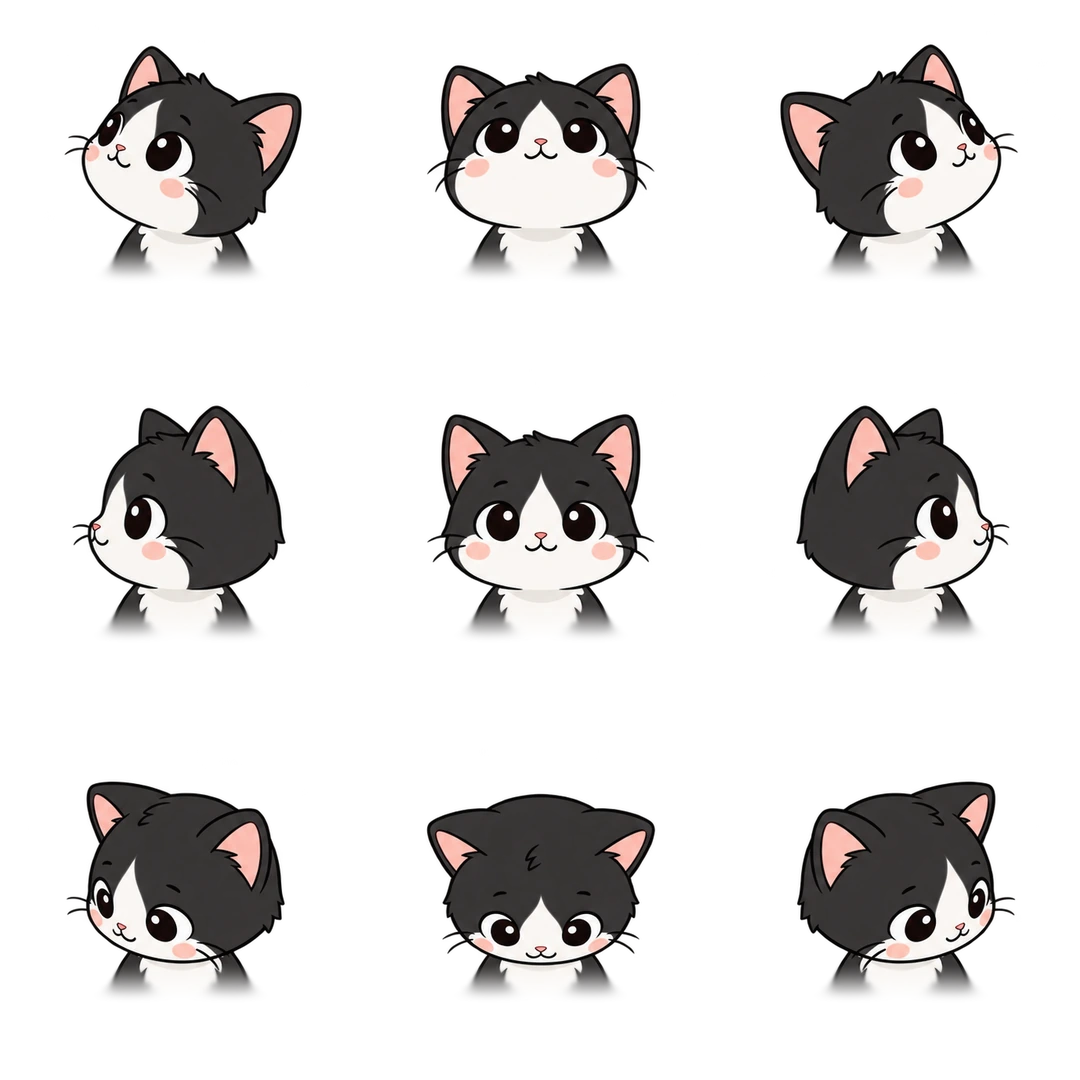
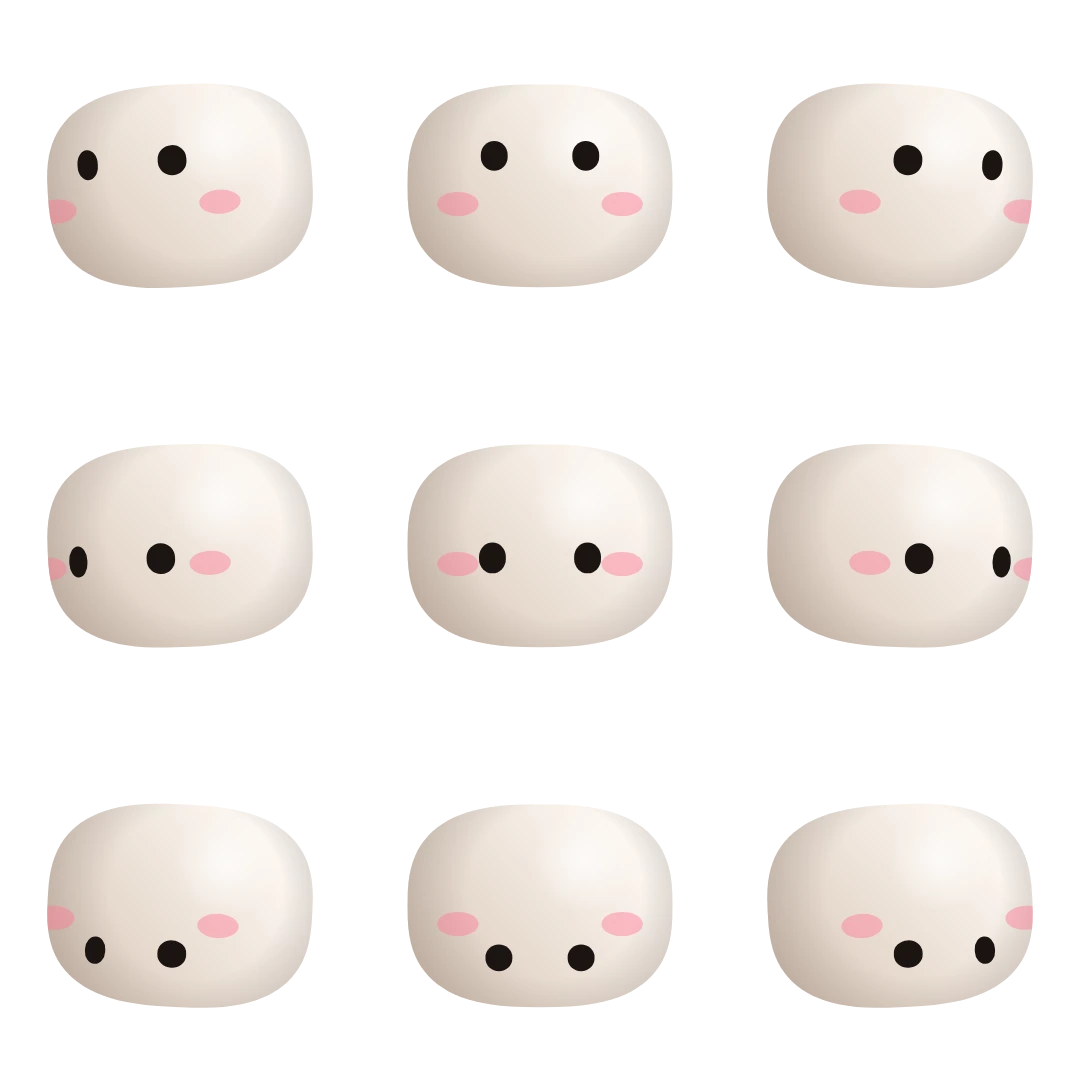
feat(mascot): integrate authentic Coucou Mochi character design

diff --git a/scripts/build-coucou-mochi-sprites.js b/scripts/build-coucou-mochi-sprites.js
@@ -1,0 +1,339 @@
+const { createCanvas } = require('@napi-rs/canvas');
+const fs = require('fs');
+const path = require('path');
+
+function drawCoucouMochi(ctx, cx, cy, size, opts = {}) {
+  const W = size;
+  const R = W * 0.32 * (opts.scale || 1.0);
+  const rx = R * 1.15;
+  const ry = R * 0.88;
+
+  const yaw = opts.yaw || 0;
+  const pitch = opts.pitch || 0;
+  const tilt = opts.tilt || 0;
+  const roll = opts.roll || 0;
+  const sx = opts.sx || 1;
+  const sy = opts.sy || 1;
+  const open = opts.open !== undefined ? opts.open : 1;
+  const eyeShape = opts.eye || 'pill';
+  const blush = opts.blush !== undefined ? opts.blush : 0.45;
+
+  ctx.save();
+  ctx.translate(cx + (opts.ox || 0) * R, cy + (opts.oy || 0) * R + R * 0.05);
+  if (tilt) ctx.rotate(tilt);
+  ctx.scale(sx, sy);
+
+  // 1. Superellipsoid path (exponent 2.7) matching BotEngine and Coucou mochiPath
+  const pathPoints = [];
+  const n = 96;
+  const e = 2 / 2.7;
+  for (let i = 0; i <= n; i++) {
+    const a = (i / n) * Math.PI * 2;
+    const ca = Math.cos(a);
+    const sa = Math.sin(a);
+    const px = rx * Math.sign(ca) * Math.pow(Math.abs(ca), e);
+    const py = ry * Math.sign(sa) * Math.pow(Math.abs(sa), e);
+    pathPoints.push([px, py]);
+  }
+
+  function setMochiPath() {
+    ctx.beginPath();
+    pathPoints.forEach(([px, py], i) => {
+      if (i === 0) ctx.moveTo(px, py);
+      else ctx.lineTo(px, py);
+    });
+    ctx.closePath();
+  }
+
+  // 2. Base Linear Gradient (Mochi Rice Warm Ivory/Porcelain)
+  setMochiPath();
+  const c0 = opts.topColor || '#FFFAF5';
+  const c1 = opts.botColor || '#DAC9BA';
+  const g = ctx.createLinearGradient(rx * 0.7, -ry * 0.85, -rx * 0.8, ry * 0.9);
+  g.addColorStop(0, c0);
+  g.addColorStop(1, c1);
+  ctx.fillStyle = g;
+  ctx.fill();
+
+  // 3. Ambient & Bottom Shading
+  setMochiPath();
+  const sh = ctx.createRadialGradient(rx * 0.25, -ry * 0.32, R * 0.15, 0, 0, R * 1.25);
+  sh.addColorStop(0, 'rgba(255, 255, 255, 0)');
+  sh.addColorStop(0.55, 'rgba(0, 0, 0, 0)');
+  sh.addColorStop(1, 'rgba(40, 20, 10, 0.18)');
+  ctx.fillStyle = sh;
+  ctx.fill();
+
+  // 4. Soft 3D Specular Highlight
+  setMochiPath();
+  const hl = ctx.createRadialGradient(rx * 0.32, -ry * 0.44, 0, rx * 0.32, -ry * 0.44, R * 0.45);
+  hl.addColorStop(0, 'rgba(255, 255, 255, 0.72)');
+  hl.addColorStop(1, 'rgba(255, 255, 255, 0)');
+  ctx.fillStyle = hl;
+  ctx.fill();
+
+  // 5. Rosy Cheeks (Blush)
+  if (blush > 0.01) {
+    ctx.save();
+    setMochiPath();
+    ctx.clip();
+    const yo = Math.sin(yaw) * rx * 0.8;
+    ctx.fillStyle = `rgba(255, 120, 150, ${blush})`;
+    for (const sd of [-1, 1]) {
+      ctx.beginPath();
+      ctx.ellipse(sd * rx * 0.62 + yo, ry * 0.18, R * 0.18, R * 0.105, 0, 0, Math.PI * 2);
+      ctx.fill();
+    }
+    ctx.restore();
+  }
+
+  // 6. Eyes (Coucou 3D Spherical Projection & Expressive Shapes)
+  const EYE_W = 0.25;
+  const EYE_H = 0.27;
+  const EYE_SP = 0.37;
+  const EYE_P = -0.12;
+
+  ctx.save();
+  setMochiPath();
+  ctx.clip();
+  ctx.fillStyle = '#1A1412';
+  ctx.strokeStyle = '#1A1412';
+
+  for (const sd of [-1, 1]) {
+    const eyeYaw = sd * EYE_SP + yaw;
+    let eyePitch = EYE_P + pitch + roll;
+    eyePitch = ((eyePitch + Math.PI) % (2 * Math.PI) + 2 * Math.PI) % (2 * Math.PI) - Math.PI;
+    const cp = Math.cos(eyePitch);
+    if (Math.cos(eyeYaw) * cp < 0.04) continue;
+
+    const px = Math.sin(eyeYaw) * cp * rx;
+    const py = -Math.sin(eyePitch) * ry;
+    const fx = Math.max(0.18, Math.cos(eyeYaw));
+    const fy = Math.max(0.18, cp);
+
+    ctx.save();
+    ctx.translate(px, py);
+    ctx.scale(fx, fy);
+
+    let ew = R * EYE_W;
+    let eh = R * EYE_H;
+
+    switch (eyeShape) {
+      case 'happy': {
+        ctx.lineWidth = ew * 0.52;
+        ctx.lineCap = 'round';
+        ctx.beginPath();
+        ctx.arc(0, eh * 0.18, ew * 0.85, Math.PI * 1.12, Math.PI * 1.88);
+        ctx.stroke();
+        break;
+      }
+      case 'wink': {
+        if (sd < 0) {
+          const hh = Math.max(eh * open, ew * 0.3);
+          ctx.beginPath();
+          ctx.roundRect(-ew / 2, -hh / 2, ew, hh, Math.min(ew / 2, hh / 2));
+          ctx.fill();
+        } else {
+          ctx.lineWidth = ew * 0.52;
+          ctx.lineCap = 'round';
+          ctx.beginPath();
+          ctx.arc(0, eh * 0.18, ew * 0.85, Math.PI * 1.12, Math.PI * 1.88);
+          ctx.stroke();
+        }
+        break;
+      }
+      case 'heart': {
+        ctx.fillStyle = '#FF4D6D';
+        const s = ew * 1.25;
+        ctx.beginPath();
+        ctx.moveTo(0, s * 0.38);
+        ctx.bezierCurveTo(-s * 1.05, -s * 0.15, -s * 0.5, -s * 0.95, 0, -s * 0.38);
+        ctx.bezierCurveTo(s * 0.5, -s * 0.95, s * 1.05, -s * 0.15, 0, s * 0.38);
+        ctx.closePath();
+        ctx.fill();
+        break;
+      }
+      case 'star': {
+        ctx.fillStyle = '#F7B32B';
+        const ro = ew * 1.15, ri = ew * 0.48;
+        ctx.beginPath();
+        for (let i = 0; i < 10; i++) {
+          const r = i % 2 ? ri : ro, a = -Math.PI / 2 + (i * Math.PI) / 5;
+          const sx = Math.cos(a) * r, sy = Math.sin(a) * r;
+          if (i === 0) ctx.moveTo(sx, sy);
+          else ctx.lineTo(sx, sy);
+        }
+        ctx.closePath();
+        ctx.fill();
+        break;
+      }
+      case 'dot': {
+        ctx.beginPath();
+        ctx.arc(0, 0, ew * 0.48, 0, Math.PI * 2);
+        ctx.fill();
+        break;
+      }
+      case 'closed': {
+        ctx.lineWidth = ew * 0.38;
+        ctx.lineCap = 'round';
+        ctx.beginPath();
+        ctx.arc(0, -eh * 0.08, ew * 0.8, Math.PI * 0.15, Math.PI * 0.85);
+        ctx.stroke();
+        break;
+      }
+      case 'spiral': {
+        ctx.lineWidth = ew * 0.24;
+        ctx.lineCap = 'round';
+        ctx.beginPath();
+        for (let a = 0; a < 4.4 * Math.PI; a += 0.2) {
+          const r = ew * 0.06 + a * ew * 0.058;
+          const sx = Math.cos(a) * r, sy = Math.sin(a) * r;
+          if (a === 0) ctx.moveTo(sx, sy);
+          else ctx.lineTo(sx, sy);
+        }
+        ctx.stroke();
+        break;
+      }
+      case 'pill':
+      default: {
+        const hh = Math.max(eh * open, ew * 0.3);
+        ctx.beginPath();
+        ctx.roundRect(-ew / 2, -hh / 2, ew, hh, Math.min(ew / 2, hh / 2));
+        ctx.fill();
+        break;
+      }
+    }
+
+    ctx.restore();
+  }
+  ctx.restore();
+
+  // 7. Floating particles
+  if (opts.particle === 'heart') {
+    ctx.save();
+    ctx.translate(rx * 0.45, -ry * 0.95);
+    ctx.fillStyle = '#FF4D6D';
+    const s = R * 0.24;
+    ctx.beginPath();
+    ctx.moveTo(0, s * 0.38);
+    ctx.bezierCurveTo(-s * 1.05, -s * 0.15, -s * 0.5, -s * 0.95, 0, -s * 0.38);
+    ctx.bezierCurveTo(s * 0.5, -s * 0.95, s * 1.05, -s * 0.15, 0, s * 0.38);
+    ctx.closePath();
+    ctx.fill();
+    ctx.restore();
+  } else if (opts.particle === 'star') {
+    ctx.save();
+    ctx.translate(rx * 0.5, -ry * 0.9);
+    ctx.fillStyle = '#F7B32B';
+    const ro = R * 0.22, ri = R * 0.095;
+    ctx.beginPath();
+    for (let i = 0; i < 10; i++) {
+      const r = i % 2 ? ri : ro, a = -Math.PI / 2 + (i * Math.PI) / 5;
+      const sx = Math.cos(a) * r, sy = Math.sin(a) * r;
+      if (i === 0) ctx.moveTo(sx, sy);
+      else ctx.lineTo(sx, sy);
+    }
+    ctx.closePath();
+    ctx.fill();
+    ctx.restore();
+  } else if (opts.particle === 'spark') {
+    ctx.save();
+    ctx.translate(rx * 0.48, -ry * 0.88);
+    ctx.fillStyle = '#FFFFFF';
+    const ro = R * 0.2, ri = R * 0.05;
+    ctx.beginPath();
+    for (let i = 0; i < 8; i++) {
+      const r = i % 2 ? ri : ro, a = (i * Math.PI) / 4;
+      const sx = Math.cos(a) * r, sy = Math.sin(a) * r;
+      if (i === 0) ctx.moveTo(sx, sy);
+      else ctx.lineTo(sx, sy);
+    }
+    ctx.closePath();
+    ctx.fill();
+    ctx.restore();
+  }
+
+  ctx.restore();
+}
+
+function buildDirectionsSheet() {
+  const canvas = createCanvas(1080, 1080);
+  const ctx = canvas.getContext('2d');
+  const cellSize = 360;
+
+  // 3x3 Grid: 9 Directions
+  // Row 0: Looking UP
+  // Row 1: Looking LEVEL
+  // Row 2: Looking DOWN
+  const grid = [
+    // Row 0
+    [
+      { yaw: -0.42, pitch: 0.38, tilt: -0.06 }, // Top-Left
+      { yaw: 0.0,   pitch: 0.42, tilt: 0 },     // Top-Center
+      { yaw: 0.42,  pitch: 0.38, tilt: 0.06 }   // Top-Right
+    ],
+    // Row 1
+    [
+      { yaw: -0.52, pitch: 0.0,  tilt: -0.04 }, // Center-Left
+      { yaw: 0.0,   pitch: 0.0,  tilt: 0 },     // Center (Idle/Front)
+      { yaw: 0.52,  pitch: 0.0,  tilt: 0.04 }   // Center-Right
+    ],
+    // Row 2
+    [
+      { yaw: -0.42, pitch: -0.38, tilt: 0.05 }, // Bottom-Left
+      { yaw: 0.0,   pitch: -0.42, tilt: 0 },    // Bottom-Center
+      { yaw: 0.42,  pitch: -0.38, tilt: -0.05 } // Bottom-Right
+    ]
+  ];
+
+  for (let r = 0; r < 3; r++) {
+    for (let c = 0; c < 3; c++) {
+      const cx = c * cellSize + cellSize / 2;
+      const cy = r * cellSize + cellSize / 2;
+      const opts = grid[r][c];
+      drawCoucouMochi(ctx, cx, cy, cellSize, opts);
+    }
+  }
+
+  const outPath = path.join(__dirname, '../frontend/public/mascots/mochi-directions.webp');
+  fs.writeFileSync(outPath, canvas.toBuffer('image/webp'));
+  console.log('Saved directions WebP to', outPath);
+}
+
+function buildReactionsSheet() {
+  const canvas = createCanvas(1080, 1080);
+  const ctx = canvas.getContext('2d');
+  const cellSize = 360;
+
+  // 3x3 Grid: 9 Reactions for Click / Boop Sequence
+  const reactions = [
+    // Row 0
+    { eye: 'dot',    oy: -0.14, sy: 1.1,  sx: 0.94, blush: 0.4,  particle: 'spark' }, // Frame 0: Surprised / Pop!
+    { eye: 'closed', oy: 0.12,  sy: 0.8,  sx: 1.2,  blush: 0.55 },                     // Frame 1: Squash boop!
+    { eye: 'wink',   tilt: 0.14, yaw: 0.18, blush: 0.52 },                             // Frame 2: Playful Wink!
+    // Row 1
+    { eye: 'happy',  oy: -0.08, sy: 1.05, blush: 0.6,   particle: 'spark' },          // Frame 3: Joyous bounce smile!
+    { eye: 'heart',  particle: 'heart', oy: -0.05, blush: 0.7 },                      // Frame 4: Love Emote!
+    { eye: 'star',   particle: 'star',  tilt: -0.12, blush: 0.48 },                    // Frame 5: Proud / Star Emote!
+    // Row 2
+    { eye: 'spiral', tilt: 0.18, blush: 0.5 },                                        // Frame 6: Dizzy / cute tilt!
+    { eye: 'pill',   open: 0.15, yaw: -0.12, blush: 0.45 },                           // Frame 7: Soft sleepy blink
+    { eye: 'happy',  blush: 0.48 }                                                    // Frame 8: Sweet contented smile
+  ];
+
+  for (let i = 0; i < 9; i++) {
+    const r = Math.floor(i / 3);
+    const c = i % 3;
+    const cx = c * cellSize + cellSize / 2;
+    const cy = r * cellSize + cellSize / 2;
+    drawCoucouMochi(ctx, cx, cy, cellSize, reactions[i]);
+  }
+
+  const outPath = path.join(__dirname, '../frontend/public/mascots/mochi-reactions.webp');
+  fs.writeFileSync(outPath, canvas.toBuffer('image/webp'));
+  console.log('Saved reactions WebP to', outPath);
+}
+
+buildDirectionsSheet();
+buildReactionsSheet();
+console.log('Coucou Mochi sprites successfully generated!');
